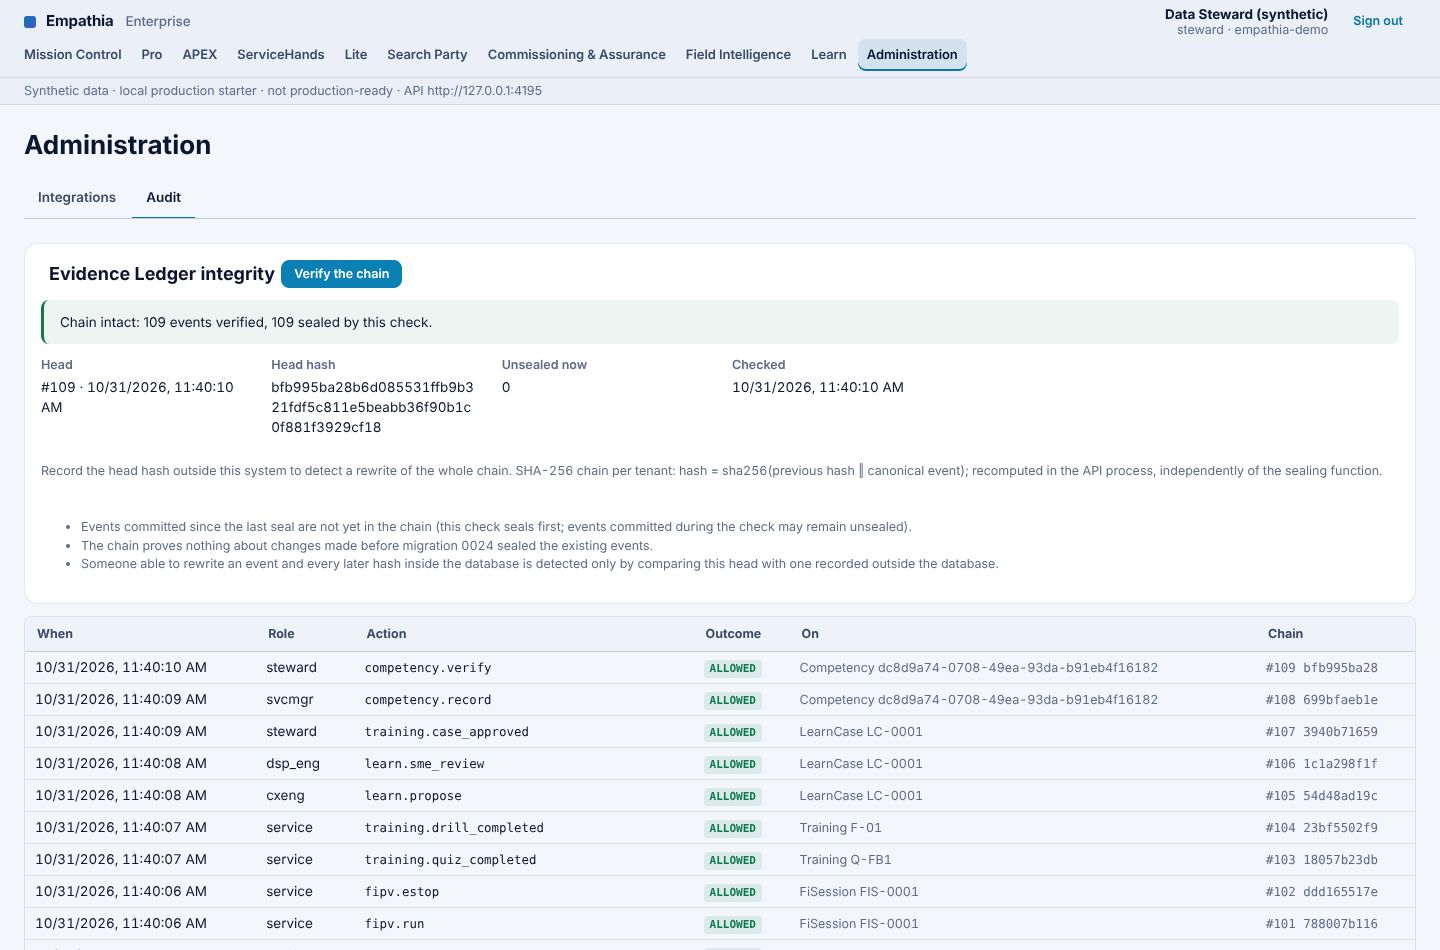
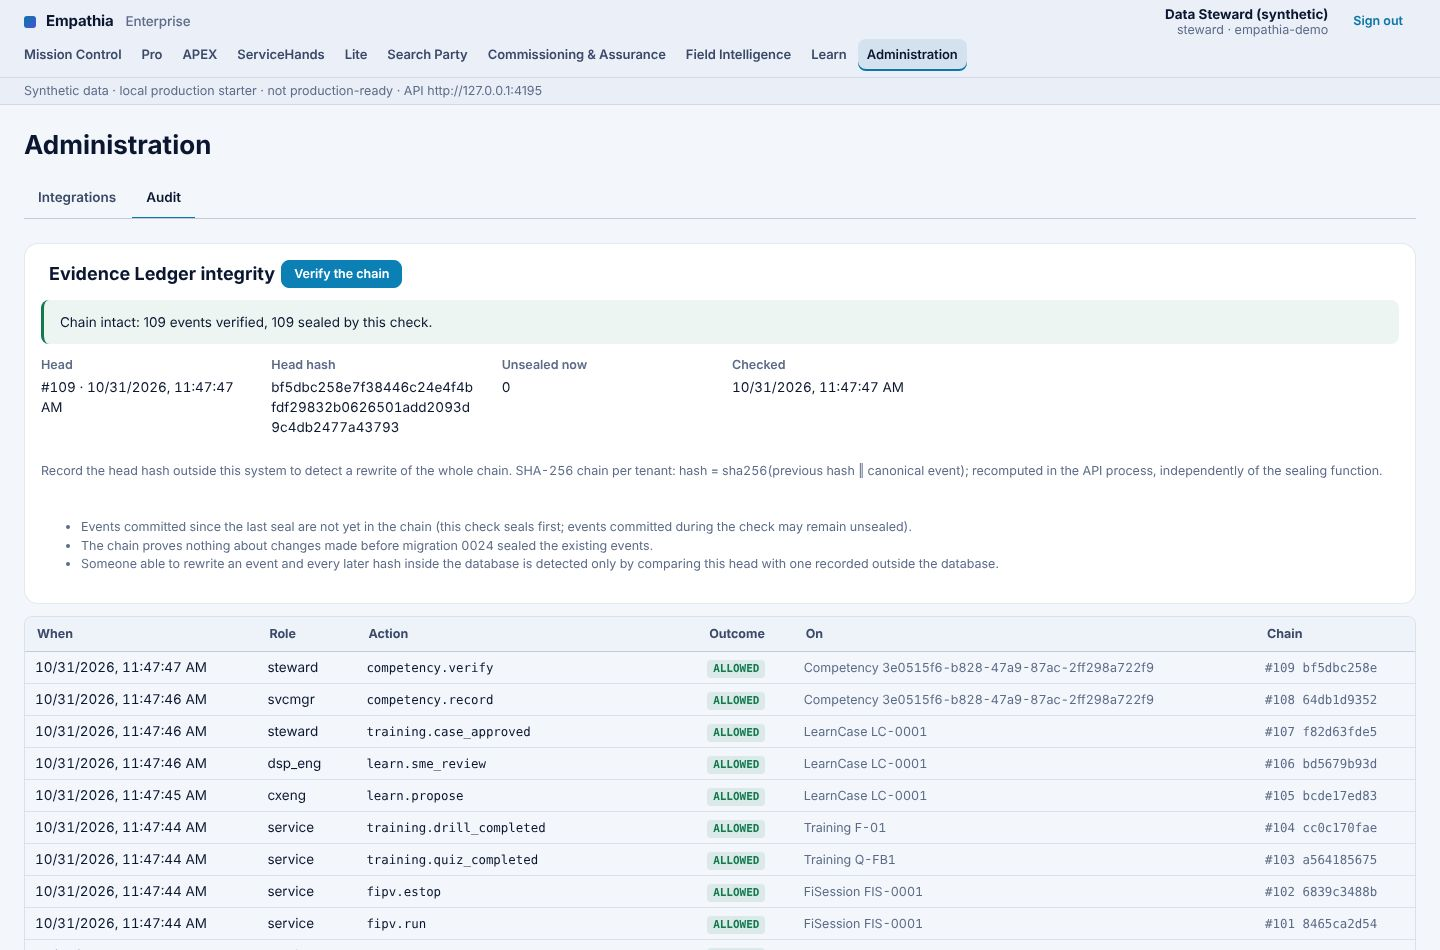
P3: the full vertical slice on one record set, intake to executive reporting
tests/security/project-lifecycle.test.mjs now carries one request through every stage with a real
failure branch: intake, review, brief, approval, funding, design, release; during execution the
display test FAILS -> deficiency -> APEX case -> A3 stages the real ServiceHands work order ->
triage, eligible assignment, acceptance, preflight, work, evidence, separated verification,
closure -> APEX review -> every test recorded and independently verified (the verified retest
resolves the deficiency) -> acceptance by a delegate, handoff, baseline -> a reviewed Learn case
(a room code in the lesson refused) -> executive passports and the building rollup count the repair
-> Search Party path TrainingCase -> WorkOrder -> RoomIssue -> Room -> Project -> nothing left in
Mission Control -> each step in the audit trail under its own actor; the ledger chain verifies.
No product-specific workflow engine: every step calls the shared engines' API.

Tests: project-lifecycle 16/16 (VS-1..3 new; EXE-1 extended).
Full regression: 46 PASS, 0 FAIL, 1 NOT RUN (full film decode).

Claude-Session: https://claude.ai/code/session_01RMXk1jVqvE4J2bVn1EY9vx

diff --git a/tests/evidence/TEST_RESULTS.md b/tests/evidence/TEST_RESULTS.md
@@ -1,53 +1,53 @@
 # Test results
 
-Run 2026-10-31T16:43:37.901Z on Node v22.22.0. PASS 46 · FAIL 0 · NOT_RUN 1 suites.
+Run 2026-10-31T16:51:11.602Z on Node v22.22.0. PASS 46 · FAIL 0 · NOT_RUN 1 suites.
 
 | Suite | Kind | Result | Passed / tests | Seconds | Why not run |
 |---|---|---|---|---|---|
-| unit: packages/commissioning-engine | unit | PASS | 128/128 | 0.5 |  |
-| unit: packages/event-contracts | unit | PASS | 3/3 | 0.1 |  |
+| unit: packages/commissioning-engine | unit | PASS | 128/128 | 0.6 |  |
+| unit: packages/event-contracts | unit | PASS | 3/3 | 0.2 |  |
 | unit: packages/relationship-engine | unit | PASS | 5/5 | 0.1 |  |
-| unit: packages/search-party | unit | PASS | 5/5 | 0.2 |  |
-| unit: packages/project-governance | unit | PASS | 9/9 | 0.2 |  |
+| unit: packages/search-party | unit | PASS | 5/5 | 0.1 |  |
+| unit: packages/project-governance | unit | PASS | 9/9 | 0.1 |  |
 | unit: packages/service-engine | unit | PASS | 5/5 | 0.1 |  |
 | unit: packages/apex-engine | unit | PASS | 4/4 | 0.1 |  |
 | unit: packages/kpi-engine | unit | PASS | 4/4 | 0.1 |  |
 | unit: packages/field-intelligence | unit | PASS | 4/4 | 0.1 |  |
-| unit: packages/assurance-engine | unit | PASS | 13/13 | 0.2 |  |
+| unit: packages/assurance-engine | unit | PASS | 13/13 | 0.1 |  |
 | unit: packages/observability | unit | PASS | 10/10 | 0.2 |  |
 | unit: packages/api-client | unit | PASS | 5/5 | 0.2 |  |
 | unit: packages/schemas | unit | PASS | 3/3 | 0.2 |  |
-| unit: integrations/contracts | unit | PASS | 7/7 | 0.2 |  |
-| unit: integrations/mocks | unit | PASS | 5/5 | 0.2 |  |
-| unit: ml research prototype (python) | unit | PASS | 5/5 | 5.9 |  |
+| unit: integrations/contracts | unit | PASS | 7/7 | 0.1 |  |
+| unit: integrations/mocks | unit | PASS | 5/5 | 0.1 |  |
+| unit: ml research prototype (python) | unit | PASS | 5/5 | 6.2 |  |
 | service: intelligence-python | integration | PASS | 4/4 | 0.7 |  |
-| integration: api.test.mjs | integration | PASS | 22/22 | 5.1 |  |
-| integration: leads.test.mjs | integration | PASS | 5/5 | 2.3 |  |
-| integration: api-client.test.mjs | integration | PASS | 3/3 | 2.3 |  |
-| integration: integration-worker.test.mjs | integration | PASS | 1/1 | 2.4 |  |
-| integration: observability.test.mjs | integration | PASS | 5/5 | 2.2 |  |
-| security: authz.test.mjs | security | PASS | 45/45 | 5.2 |  |
-| security: founder-boundary.test.mjs | security | PASS | 6/6 | 2.7 |  |
-| security: site-scope.test.mjs | security | PASS | 3/3 | 3.1 |  |
-| security: authority-matrix.test.mjs | security | PASS | 2/2 | 11.2 |  |
-| security: governance.test.mjs | security | PASS | 9/9 | 7 |  |
-| security: administration.test.mjs | security | PASS | 5/5 | 3.3 |  |
-| security: search-party.test.mjs | security | PASS | 7/7 | 3.6 |  |
-| security: oidc.test.mjs | security | PASS | 4/4 | 2.4 |  |
-| security: project-lifecycle.test.mjs | security | PASS | 13/13 | 7.8 |  |
-| security: service-lifecycle.test.mjs | security | PASS | 11/11 | 3.7 |  |
-| security: apex.test.mjs | security | PASS | 5/5 | 3.3 |  |
-| security: field-intelligence.test.mjs | security | PASS | 6/6 | 3.3 |  |
-| security: learn.test.mjs | security | PASS | 4/4 | 3.8 |  |
-| security: mission-control.test.mjs | security | PASS | 8/8 | 3.4 |  |
-| security: competency.test.mjs | security | PASS | 6/6 | 4 |  |
-| security: ledger.test.mjs | security | PASS | 5/5 | 2.9 |  |
-| security: measurement-import.test.mjs | security | PASS | 4/4 | 2.8 |  |
+| integration: api.test.mjs | integration | PASS | 22/22 | 5.9 |  |
+| integration: leads.test.mjs | integration | PASS | 5/5 | 2.2 |  |
+| integration: api-client.test.mjs | integration | PASS | 3/3 | 2.1 |  |
+| integration: integration-worker.test.mjs | integration | PASS | 1/1 | 2.6 |  |
+| integration: observability.test.mjs | integration | PASS | 5/5 | 2.1 |  |
+| security: authz.test.mjs | security | PASS | 45/45 | 4.7 |  |
+| security: founder-boundary.test.mjs | security | PASS | 6/6 | 2.6 |  |
+| security: site-scope.test.mjs | security | PASS | 3/3 | 3.3 |  |
+| security: authority-matrix.test.mjs | security | PASS | 2/2 | 12 |  |
+| security: governance.test.mjs | security | PASS | 9/9 | 6.8 |  |
+| security: administration.test.mjs | security | PASS | 5/5 | 3.7 |  |
+| security: search-party.test.mjs | security | PASS | 7/7 | 3.5 |  |
+| security: oidc.test.mjs | security | PASS | 4/4 | 2.1 |  |
+| security: project-lifecycle.test.mjs | security | PASS | 16/16 | 7.9 |  |
+| security: service-lifecycle.test.mjs | security | PASS | 11/11 | 3.9 |  |
+| security: apex.test.mjs | security | PASS | 5/5 | 3.5 |  |
+| security: field-intelligence.test.mjs | security | PASS | 6/6 | 3.6 |  |
+| security: learn.test.mjs | security | PASS | 4/4 | 3.3 |  |
+| security: mission-control.test.mjs | security | PASS | 8/8 | 4 |  |
+| security: competency.test.mjs | security | PASS | 6/6 | 4.7 |  |
+| security: ledger.test.mjs | security | PASS | 5/5 | 3 |  |
+| security: measurement-import.test.mjs | security | PASS | 4/4 | 2.7 |  |
 | e2e: website lead form over the API | e2e | PASS | 6/6 | 4.7 |  |
-| browser: enterprise web E2E | e2e | PASS | 88/88 | 32.7 |  |
-| browser: public website | browser | PASS | 32/32 | 7.3 |  |
-| browser: investor demo shell | browser | PASS | 101/101 | 97.8 |  |
-| browser: Founder Studio | browser | PASS | 19/19 | 42.8 |  |
-| e2e: founder town hall (Founder Edition) | e2e | PASS | 25/25 | 50.3 |  |
-| e2e: founder decisions (hosted studio over the API) | e2e | PASS | 9/9 | 7.3 |  |
+| browser: enterprise web E2E | e2e | PASS | 88/88 | 31.9 |  |
+| browser: public website | browser | PASS | 32/32 | 7.2 |  |
+| browser: investor demo shell | browser | PASS | 101/101 | 97.9 |  |
+| browser: Founder Studio | browser | PASS | 19/19 | 39.5 |  |
+| e2e: founder town hall (Founder Edition) | e2e | PASS | 25/25 | 49.8 |  |
+| e2e: founder decisions (hosted studio over the API) | e2e | PASS | 9/9 | 7.8 |  |
 | media: full decode of every curated film | media | NOT_RUN | — | — | pass --films (slow: decodes ~47 minutes of video) |

diff --git a/docs/BUILD_STATUS.md b/docs/BUILD_STATUS.md
@@ -251,6 +251,27 @@ Not built: SIGNAL labs (91 simulators); the enterprise app's service/APEX/execut
 | Defect found and fixed | — | invalidating a query deleted its cached data, so the page fell back to "loading" and unmounted any open form, losing what had been typed (found when the import drawer emptied itself). The web cache is now stale-while-revalidate: the last data stays on screen while it refetches; sign-in and sign-out still clear everything |
 | Not built | — | vendor-specific export formats; a calibration-certificate registry (the certificate is declared, not checked); linking imported values to a commissioning test result; Field Intelligence sessions never become measurements (they are simulations) |
 
+### P3 (Ascension) — the full vertical slice on one record set (2026-10-31)
+
+One request is carried from intake to executive reporting in `tests/security/project-lifecycle.test.mjs` (16 tests, real HTTP and
+PostgreSQL). Every transition has its authorized actor, its guard tried the wrong way first, a persisted result, an audit record and,
+where the contracts define one, an event. No product has its own workflow engine: each step is a call to the shared engine's API.
+
+| Stage | How it is exercised | Test |
+|---|---|---|
+| Intake → review → brief → approval → funding | request types, guards, routed supplier, versioned brief, approver selection, hold and reopen, delegated decision, funding against the approved scope revision | INT-1/2, CAT-1, REV-1/2, BRF-1, APR-1/2 |
+| Design → release | room in the project, revisions with DIVR, domain review never by the author, RFI, geometry approval, release | DSN-1 |
+| Execution → commissioning **with a failure** | plan pinned to the rule pack; field authorization; the display test FAILS → deficiency → APEX case (commissioning lead) → A3 stages the real work order (service manager) → triage, eligible assignment (verified competency records), acceptance, preflight, start, evidence, submit, separated verification, closure → APEX review → every test recorded and independently verified; the verified retest resolves the deficiency | EXE-1 |
+| Acceptance → handoff → baseline | documents, customer acceptance by a delegate who neither recorded nor verified, support owner, current baseline | HND-1 |
+| Operations (honest) | OPERATIONAL refused without live monitoring evidence | OPS-1 |
+| Learning | Learn case from the closed repair; a room code in the lesson is refused as identifying; SME review, then steward approval | VS-1 |
+| Executive reporting · Search Party · Mission Control | passports count the completed task and resolved deficiency, MTTR measured; building rollup attributes the repair; a recorded path TrainingCase → WorkOrder → RoomIssue → Room → Project; nothing left waiting for five roles | VS-2 |
+| Evidence | each work-order step under its own actor; APEX open, A3 and review; Learn propose, review and approval; the ledger chain verifies (>100 events) | VS-3 |
+| Isolation | second tenant and an out-of-site technician see nothing | ISO-1 |
+
+Not in the slice: Field Intelligence (its sessions are simulations and stay outside the measured record), Lite (geometry stays in the
+room's own lifecycle), instrument import (covered by IMP-1..4 on its own room), live operational monitoring (does not exist).
+
 ### Connector expansion directive (2026-10-31 05:34 CT) — what was actually done
 
 | Item | Status | Evidence |
